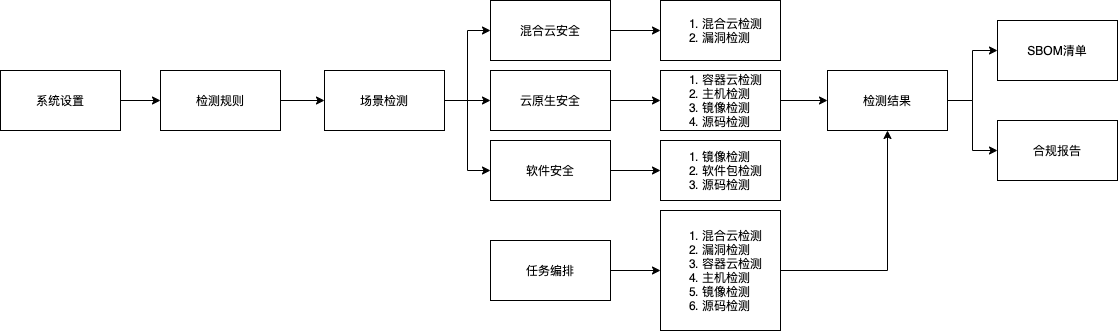
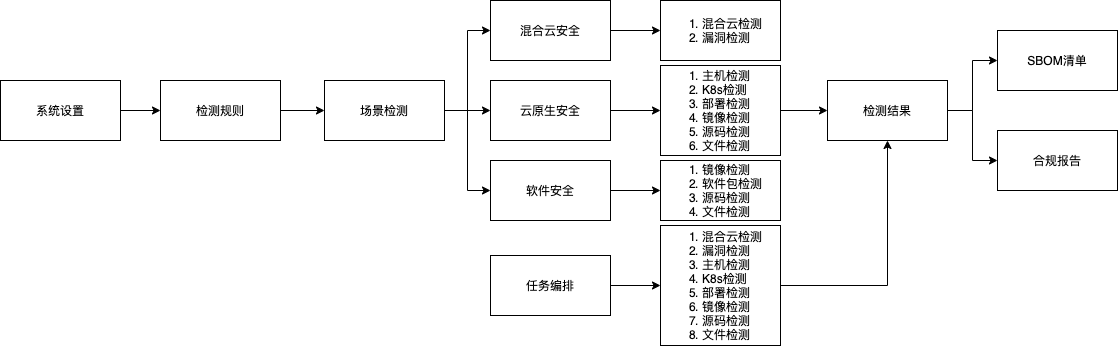
refactor(process): 使用流程

diff --git a/docs/user/process.md b/docs/user/process.md
@@ -1,35 +1,29 @@
 ### 流程
 
-> HummerRisk 通过简易操作实现多种资源安全检测，操作流程如下。
+!!! info "使用场景"
+    HummerRisk 通过简易操作实现多种资源安全检测，操作流程如下:
 
-![流程](../img/user/process.png)
+![流程](../img/user/process.png){ width="95%" }
 
-    系统设置 -> 用户配置 -> 消息通知 -> 代理设置
-
-    检测规则 -> 规则标签 -> 规则组 -> 风险条例
-
-    云资源配置 -> 云资源检测规则 -> 云资源检测结果 -> 合规报告
-
-    漏洞配置 -> 漏洞检测规则 -> 漏洞检测结果 -> 合规报告
-
-    主机配置 -> 主机检测规则 -> 主机检测结果
-
-    K8s 配置 -> K8s 检测结果
-
-    部署配置 -> 部署配置检测结果
-
-    镜像配置 -> 镜像检测结果(绑定SBOM) -> SBOM 分析下载报告
-
-    源码配置 -> 源码检测结果(绑定SBOM) -> SBOM 分析下载报告
-
-    任务编排 -> 多种检测规则自由搭配 -> 基于任务的检测结果 -> 任务分析
+!!! example "功能分类"
+    1. 系统设置 -> 用户配置 -> 消息通知 -> 代理设置
+    2. 检测规则 -> 规则标签 -> 规则组 -> 风险条例
+    3. 云资源配置 -> 云资源检测规则 -> 云资源检测结果 -> 合规报告 -> 云资源态势
+    4. 漏洞配置 -> 漏洞检测规则 -> 漏洞检测结果 -> 合规报告
+    5. 主机配置 -> 主机检测规则 -> 主机检测结果
+    6. K8s 配置 -> K8s 检测结果 -> K8s 资源态势
+    7. 部署配置 -> 部署配置检测结果
+    8. 镜像管理 -> 镜像检测结果(绑定SBOM) -> SBOM 分析下载报告
+    9. 源码管理 -> 源码检测结果(绑定SBOM) -> SBOM 分析下载报告
+    10. 文件管理 -> 文件检测结果(绑定SBOM) -> SBOM 分析下载报告
+    11. 任务编排 -> 多种检测规则自由搭配 -> 基于任务的检测结果 -> 任务分析
 
 ### 主菜单
 
-![主菜单](../img/user/panel.png)
+![主菜单](../img/user/panel.png){ width="95%" }
 
 ### 登录
 
-![登录](../img/user/login.png)
+![登录](../img/user/login.png){ width="95%" }
 
 !!! warning "默认 web 登录账户: admin 密码：hummer"
